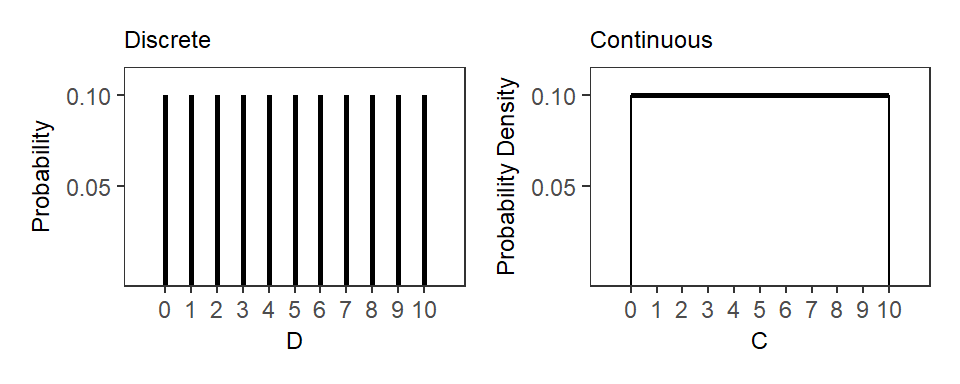
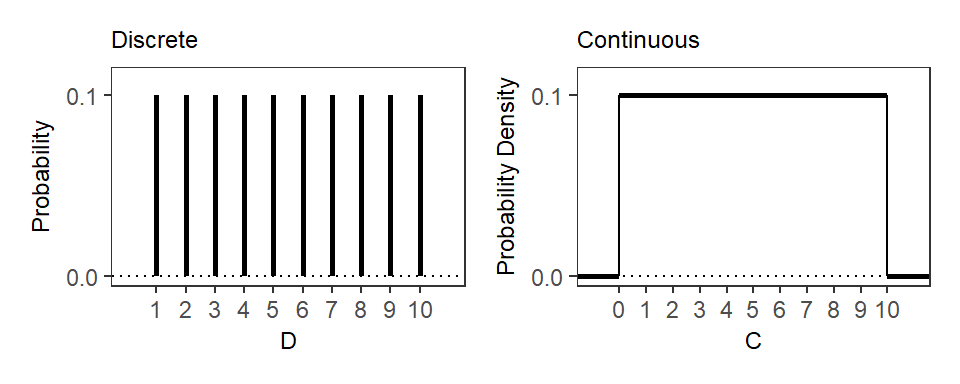
update plots

diff --git a/public/post/freqstats01/index.html b/public/post/freqstats01/index.html
@@ -126,6 +126,8 @@
     <div align="start" class="content">
 
 
+<p><span class="math inline">\(\mathbb{R}\)</span> Did this work???</p>
+<p><img src="/post/2020-12-23-freqstats01_files/figure-html/sample%20space-1.png" width="480" style="display: block; margin: auto;" /></p>
 <p><img src="/post/2020-12-23-freqstats01_files/figure-html/probdists%20unif-1.png" width="480" style="display: block; margin: auto;" /></p>
 <p><img src="/post/2020-12-23-freqstats01_files/figure-html/dice-1.png" width="480" style="display: block; margin: auto;" /></p>
 <p><img src="/post/2020-12-23-freqstats01_files/figure-html/coin%20flips-1.png" width="480" style="display: block; margin: auto;" /></p>

diff --git a/content/post/2020-12-23-freqstats01.html b/content/post/2020-12-23-freqstats01.html
@@ -9,6 +9,8 @@ tags: []
 
 
 
+<p><span class="math inline">\(\mathbb{R}\)</span> Did this work???</p>
+<p><img src="/post/2020-12-23-freqstats01_files/figure-html/sample%20space-1.png" width="480" style="display: block; margin: auto;" /></p>
 <p><img src="/post/2020-12-23-freqstats01_files/figure-html/probdists%20unif-1.png" width="480" style="display: block; margin: auto;" /></p>
 <p><img src="/post/2020-12-23-freqstats01_files/figure-html/dice-1.png" width="480" style="display: block; margin: auto;" /></p>
 <p><img src="/post/2020-12-23-freqstats01_files/figure-html/coin%20flips-1.png" width="480" style="display: block; margin: auto;" /></p>

diff --git a/public/post/index.html b/public/post/index.html
@@ -136,21 +136,6 @@
 
 
 </div>
-  <div class="item">
-
-    
-    
-    
-
-    
-    
-
-    <h4><a href="/post/freqstats1/">FreqStats 1</a></h4>
-    <h5>December 6, 2020</h5>
-    
-
-
-</div>
  
 
 </main>
